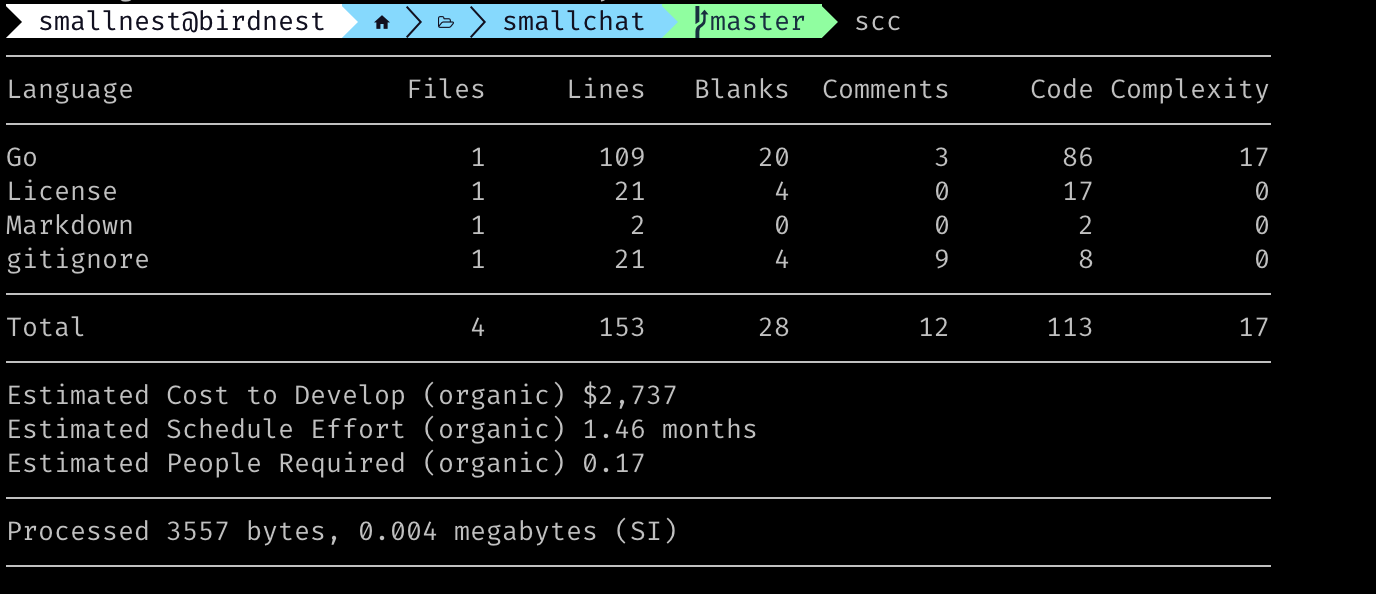
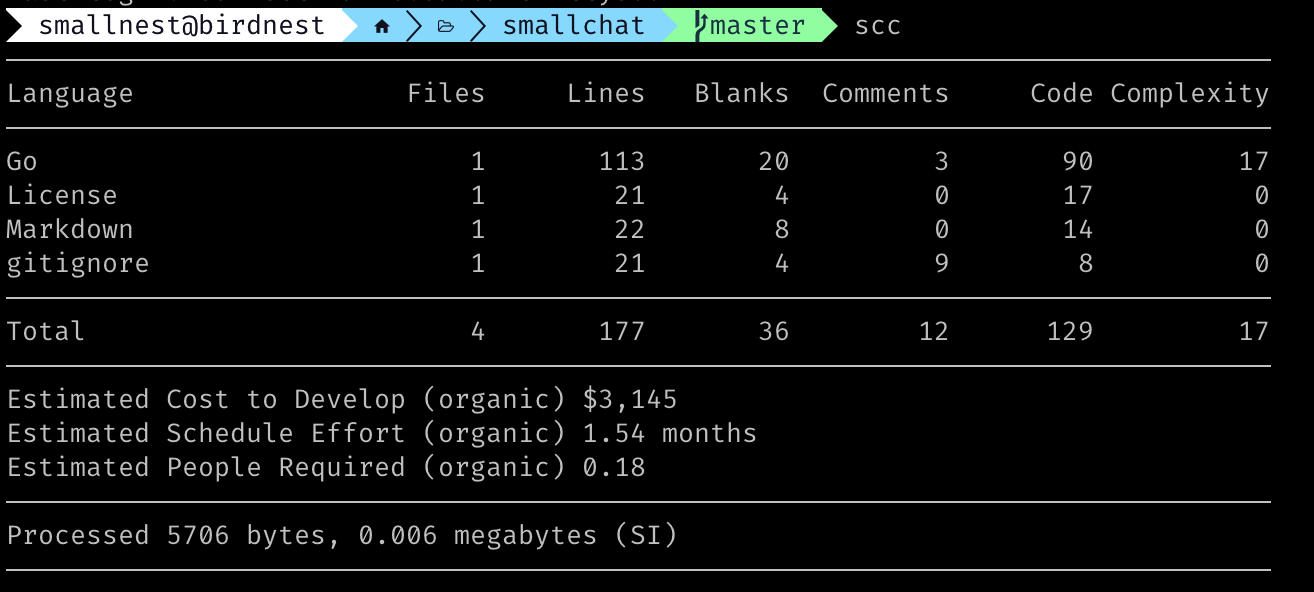
remove conn if clients are closed

diff --git a/smallchat.go b/smallchat.go
@@ -54,6 +54,10 @@ func handleClient(client *Client) {
 		n, err := client.conn.Read(buf)
 		if err != nil {
 			fmt.Printf("client left: %s\n", client.conn.RemoteAddr())
+			chatState.clientsLock.Lock()
+			delete(chatState.clients, client.conn)
+			chatState.numClients--
+			chatState.clientsLock.Unlock()
 			return
 		}
 
